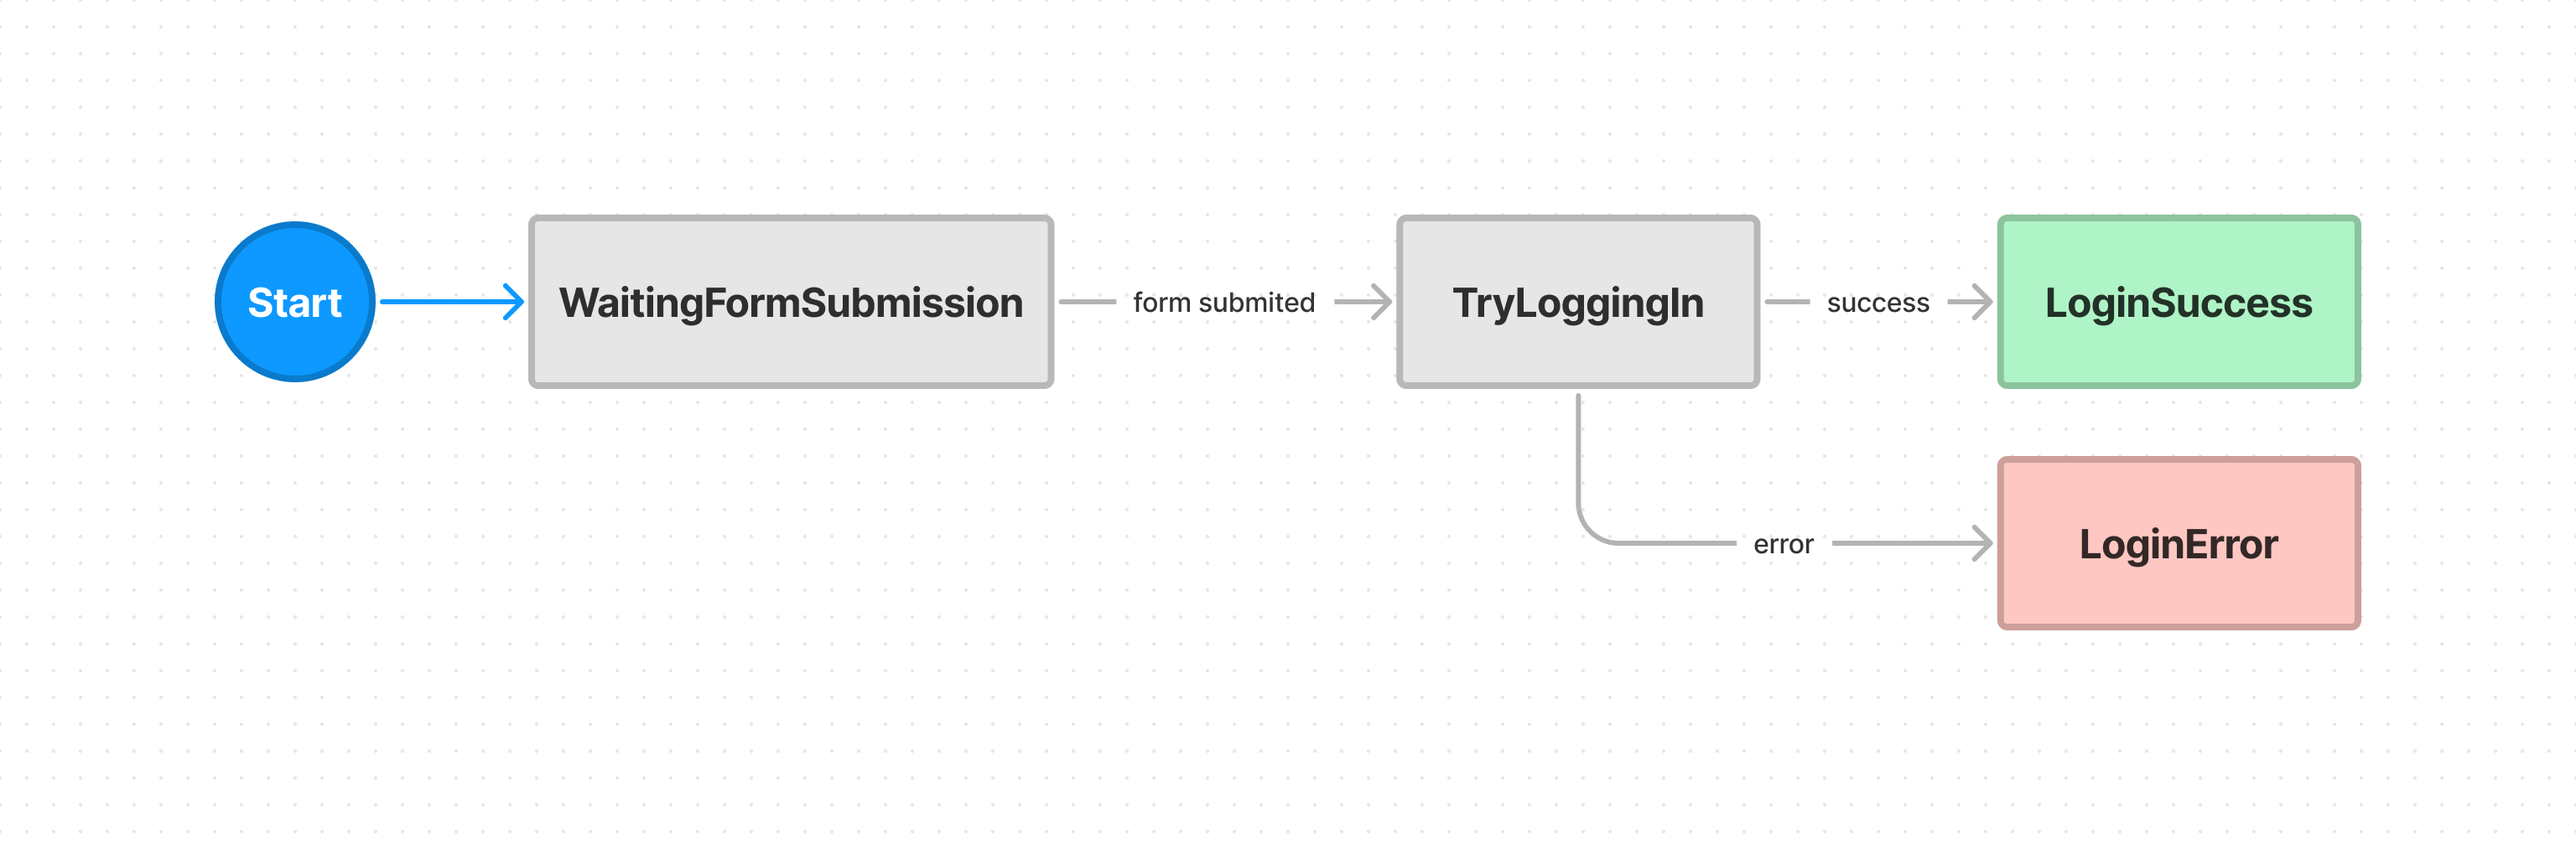
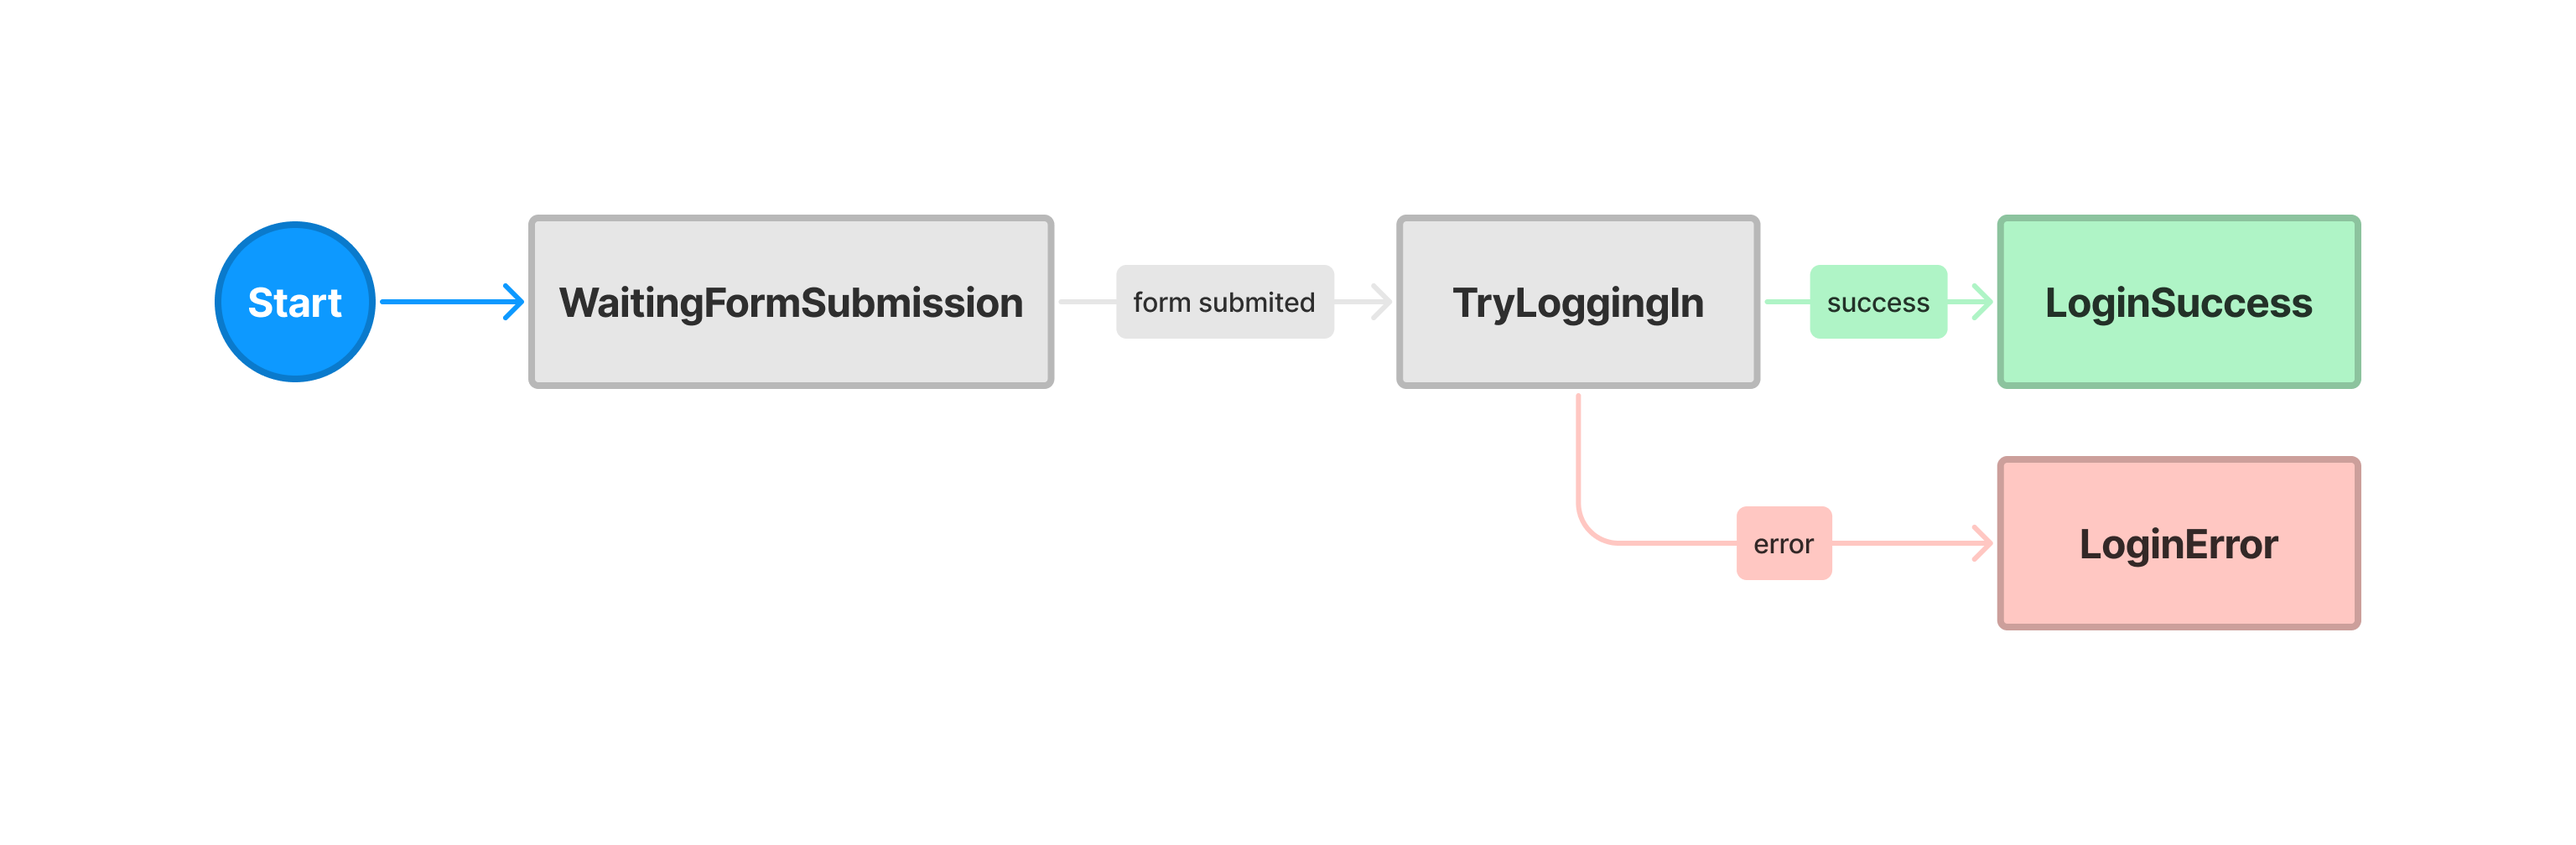
make sm graph transparent

Changed region(s): [[0.5938, 0.5843, 0.7812, 0.7073], [0.4062, 0.3075, 0.5625, 0.3998], [0.6875, 0.3075, 0.7812, 0.3998]]

diff --git a/packages/state_machine_bloc/README.md b/packages/state_machine_bloc/README.md
@@ -47,9 +47,9 @@ State machines are created by extending `StateMachine`, a new class introduced b
 State machine's states and transitions are defined using a new method, `define<State>`, witch is similar to `Bloc`'s `on<Event>`. By calling `define<State>`, you registering `State` as part of the machine's set of allowed states. Each state can have its own set of events handlers, lifecycle callbacks and transitions.
 
 The following state machine represent a login page bloc that first wait for user to submit form, then try to log-in user using the API and finally change its state to success or error based on API return. On the right you can see the state machine graph and on the left the corresponding code implementation.
-
-
+<p align="center">
 <img width="100%" src="https://raw.githubusercontent.com/Pierre2tm/state_machine_bloc/main/docs/assets/readme/simple_login_sm_graph.png" alt="State machine Bloc" />
+</p>
 
 ```dart
 import 'package:state_machine_bloc/state_machine_bloc.dart';
